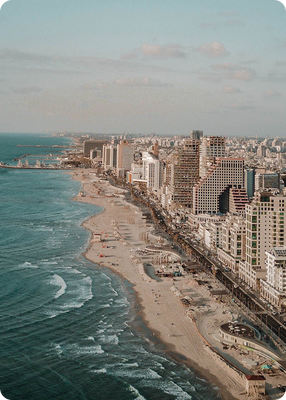
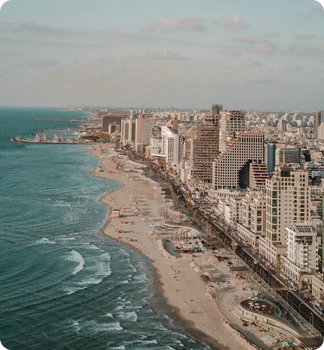
add backgrounds to news section cards

diff --git a/source/sass/blocks/news.scss b/source/sass/blocks/news.scss
@@ -62,16 +62,89 @@
   max-width: 290px;
   min-height: 330px;
   background-color: $beige;
+  background-size: cover;
+  background-repeat: no-repeat;
+  border-radius: 12px;
+
+  &--bg-1 {
+    background-image:
+      image-set(
+        url("../../img/bg/news-1@1x.webp") 1x,
+        url("../../img/bg/news-1@2x.webp") 2x,
+        url("../../img/bg/news-1@1x.jpg") 1x,
+        url("../../img/bg/news-1@2x.jpg") 2x
+      );
+    background-position: -7px 0;
+  }
+
+  &--bg-2 {
+    min-height: 240px;
+    background-image:
+      image-set(
+        url("../../img/bg/news-2@1x.webp") 1x,
+        url("../../img/bg/news-2@2x.webp") 2x,
+        url("../../img/bg/news-2@1x.jpg") 1x,
+        url("../../img/bg/news-2@2x.jpg") 2x
+      );
+    background-position: 0 -35px;
+  }
+
+  &--bg-3 {
+    background-image:
+      image-set(
+        url("../../img/bg/news-3@1x.webp") 1x,
+        url("../../img/bg/news-3@2x.webp") 2x,
+        url("../../img/bg/news-3@1x.jpg") 1x,
+        url("../../img/bg/news-3@2x.jpg") 2x
+      );
+    background-position: 0 -45px;
+  }
+
+  &--bg-4 {
+    background-image:
+      image-set(
+        url("../../img/bg/news-4@1x.webp") 1x,
+        url("../../img/bg/news-4@2x.webp") 2x,
+        url("../../img/bg/news-4@1x.jpg") 1x,
+        url("../../img/bg/news-4@2x.jpg") 2x
+      );
+  }
 
   @include media("tablet") {
     max-width: 324px;
+    min-height: 350px;
+
+    &--bg-2 {
+      background-position: 0 0;
+    }
+
+    &--bg-3 {
+      background-position: 0 -69px;
+    }
   }
 
   @include media("desktop") {
     max-width: 286px;
+    min-height: 400px;
 
     &--first {
       max-width: 604px;
+    }
+
+    &--bg-1 {
+      background-position: 0 -126px;
+    }
+
+    &--bg-2 {
+      background-position: -44px 0;
+    }
+
+    &--bg-3 {
+      background-position: 0 -13px;
+    }
+
+    &--bg-4 {
+      background-position: -43px 0;
     }
   }
 }
@@ -79,9 +152,12 @@
 .news__slide-content {
   width: 263px;
   padding: 12px 10px 10px 0;
+  background-color: $beige;
+  border-top-right-radius: 12px;
 
   @include media("tablet") {
     width: 240px;
+    padding: 12px 18px 15px 0;
   }
 }
 

diff --git a/source/index.html b/source/index.html
@@ -264,7 +264,7 @@
 
           <div class="news__slider swiper">
             <div class="swiper-wrapper" id="news-list">
-              <div class="news__slide swiper-slide news__slide--first">
+              <div class="news__slide swiper-slide news__slide--bg-1 news__slide--first">
                 <div class="news__slide-content">
                   <time class="news__date" datetime="2023-03-23">23/03/2023</time>
                   <h3 class="news__slide-title">Интервью с участницей программы стажировки</h3>
@@ -276,7 +276,7 @@
                   </div>
                 </div>
               </div>
-              <div class="news__slide swiper-slide">
+              <div class="news__slide news__slide--bg-2 swiper-slide">
                 <div class="news__slide-content">
                   <time class="news__date" datetime="2023-03-20">20/03/2023</time>
                   <h3 class="news__slide-title">Путешествуем по миру</h3>
@@ -288,7 +288,7 @@
                   </div>
                 </div>
               </div>
-              <div class="news__slide swiper-slide">
+              <div class="news__slide news__slide--bg-3 swiper-slide">
                 <div class="news__slide-content">
                   <time class="news__date" datetime="2023-03-17">17/03/2023</time>
                   <h3 class="news__slide-title">Новая программа волонтёрства</h3>
@@ -300,7 +300,7 @@
                   </div>
                 </div>
               </div>
-              <div class="news__slide swiper-slide">
+              <div class="news__slide news__slide--bg-4 swiper-slide">
                 <div class="news__slide-content">
                   <time class="news__date" datetime="2023-03-10">10/03/2023</time>
                   <h3 class="news__slide-title">Построй свою карьеру</h3>
